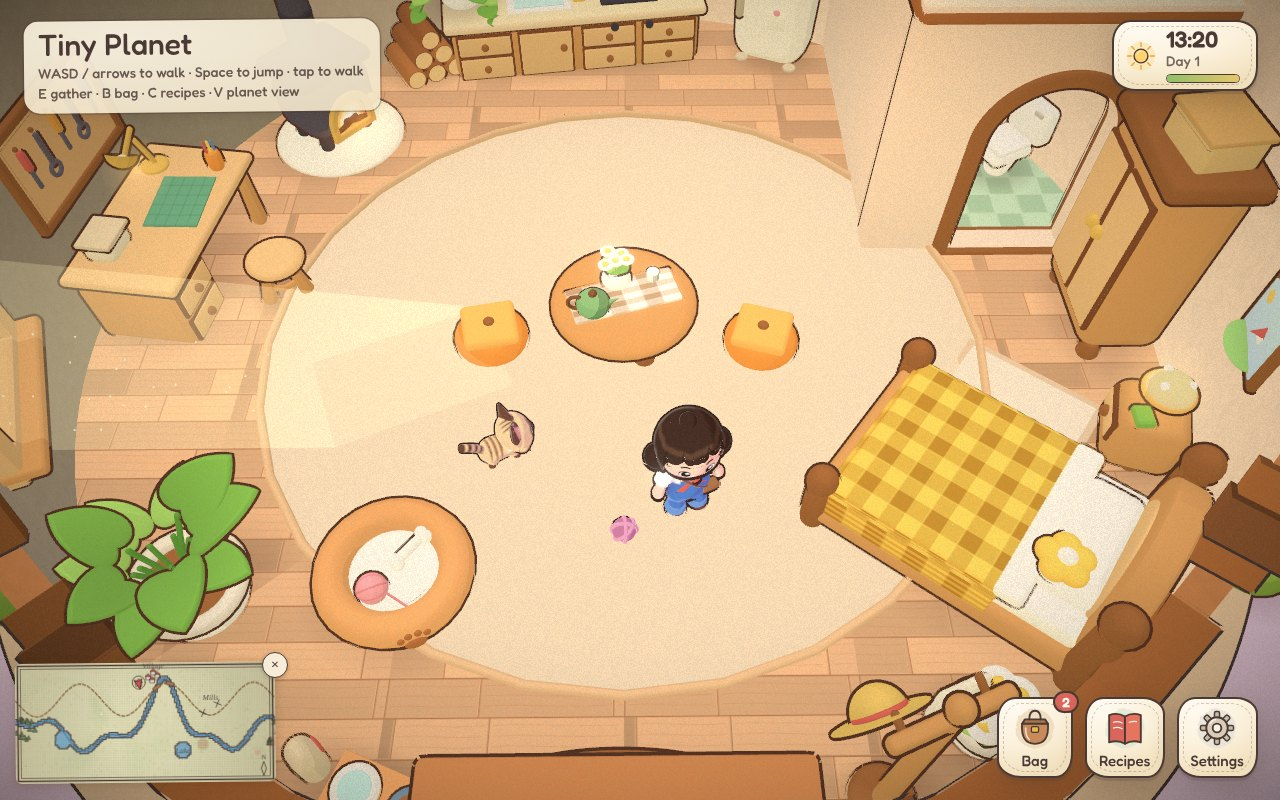
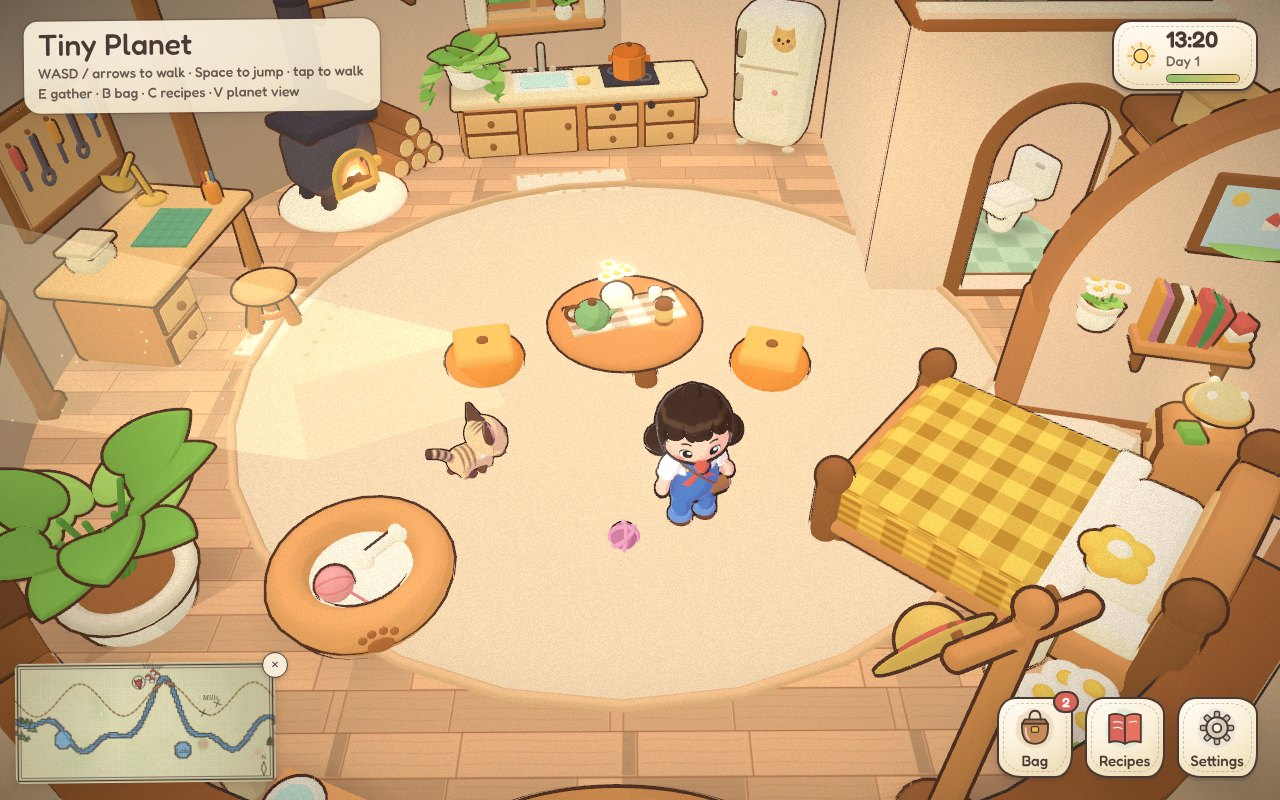
Home: closer to the concept - dollhouse camera, warmer light, bed alcove
- Camera: a lower, more front-on angle (about 38 degrees, was ~52), so the
  back walls stand tall and the room reads like the concept's dollhouse
  cutaway rather than a floor plan; still looks down steeply by the door.
- Light and colour: the walls are a warm peach that lightens toward the
  top; a soft four-pane patch of sunlight falls in front of the kitchen
  counter by day; lamp glows on the floor show faintly by day too; the
  wood palette is a warmer caramel.
- Bed alcove: a plaster half-wall with a quarter-round top and timber
  trim between the wardrobe and the bed, with a little shelf, a picture
  and a daisy pot on the bed side.
- Cozy layers: curtains with tie-backs on the kitchen window, little pots
  on both window sills, a lantern on the table, a trailing pothos on the
  jar shelf, floor mats by the counter and the desk, wall timbers.
New props: alcoveWall, timber, mat; archWindow curtains / sill plant and
a roundTable lantern option.

Claude-Session: https://claude.ai/code/session_01CNaBwL7WGoZ8QVtCgzA9vc

diff --git a/src/home/interior.jsx b/src/home/interior.jsx
@@ -40,8 +40,10 @@ P.bigPlant = against(-131, 0.34, 0.34)
 P.petBowls = against(-158, 0.36, 0.14)
 P.coatStand = against(158, 0.26, 0.12)
 P.wardrobe = against(90, 0.38, 0.24)
-P.nightstand = against(109, 0.19, 0.18)
-P.bed = against(128, 0.5, 0.72)
+P.nightstand = against(112, 0.19, 0.18)
+P.bed = against(130, 0.5, 0.72)
+// the bed alcove: a half-wall with a quarter-round top, from the round wall toward the middle (like the concept)
+export const ALCOVE = { phi: 103, len: 0.5 }
 P.flowerPot = against(147, 0.17, 0.17)
 const pol = (phi, r, yaw = 0) => { const [x, z] = polar(phi, r); return { x, z, yaw } }
 P.petBed = pol(-147, 0.98, 0.4)
@@ -58,7 +60,10 @@ P.toilet = against(63, 0.16, 0.22)
 const KW = -13, LW = -112, PORT = 47
 P.kitchenWindow = onWall(KW, 0.4); P.leftWindow = onWall(LW, 0.4)
 P.jarShelf = onWall(10, 0.62, 0.5); P.bookShelf = onWall(-37, 0.6, 0.44); P.pegboard = onWall(-82, 0.36, 0.42)
-P.picture = onWall(109, 0.42, 0.22); P.towelRail = { x: NOOK.x0 + 0.03, y: 0.32, z: -0.72, yaw: Math.PI / 2 }
+ P.towelRail = { x: NOOK.x0 + 0.03, y: 0.32, z: -0.72, yaw: Math.PI / 2 }
+P.kitchenMat = (() => { const [x, z] = local(P.counter, -0.06, 0.35); return { x, z, yaw: P.counter.yaw } })()
+P.deskMat = (() => { const [x, z] = local(P.desk, -0.02, 0.36); return { x, z, yaw: P.desk.yaw } })()
+P.shelfPlant = (() => { const [x, z] = local(P.jarShelf, 0.215, 0.06); return { x, y: P.jarShelf.y + 0.012, z, yaw: P.jarShelf.yaw } })()
 export const LAYOUT = P
 
 // openings in the round wall (arc width w in room units around phi)
@@ -73,6 +78,7 @@ const cook = local(P.counter, 0.19, 0), sink = local(P.counter, -0.12, 0), cookS
 export const SPOTS = {
   cook: { x: cook[0], z: cook[1], y: 0.238, stand: cookStand, yaw: P.counter.yaw + Math.PI },
   sink: { x: sink[0], z: sink[1] },
+  bath: { stand: [NOOK.x0 + (1.6 - NOOK.x0) / 2 - 0.05, NOOK.z1 - 0.15] },
   table: { x: P.table.x, z: P.table.z, h: 0.158 },
   stool: { x: P.stool.x, z: P.stool.z, h: 0.142, face: P.desk.yaw + Math.PI },
   bed: { ...P.bed, top: 0.16, head: [Math.sin(-P.bed.yaw), -Math.cos(-P.bed.yaw)] }, // head points at the wall
@@ -96,6 +102,7 @@ export const BLOCK_LIST = () => [
   { ...fp('roundTable', P.table, 0.95), id: 'table', round: true }, { ...fp('pouf', P.poufL, 0.85), id: 'poufL', round: true }, { ...fp('pouf', P.poufR, 0.85), id: 'poufR', round: true },
   { id: 'bathSide', x0: NOOK.x0 - 0.04, x1: NOOK.x0 + 0.04, z0: -1.6, z1: NOOK.z1 + 0.03 },
   { id: 'bathFront1', x0: NOOK.x0 - 0.04, x1: 0.95, z0: NOOK.z1 - 0.04, z1: NOOK.z1 + 0.04 }, { id: 'bathFront2', x0: 1.31, x1: 1.6, z0: NOOK.z1 - 0.04, z1: NOOK.z1 + 0.04 },
+  (() => { const [ax, az] = polar(ALCOVE.phi, R), [bx, bz] = polar(ALCOVE.phi, R - ALCOVE.len); return { id: 'alcove', x0: Math.min(ax, bx) - 0.05, x1: Math.max(ax, bx) + 0.05, z0: Math.min(az, bz) - 0.05, z1: Math.max(az, bz) + 0.05 } })(),
   { id: 'tub', x0: P.tub.x - 0.16, x1: P.tub.x + 0.16, z0: P.tub.z - 0.16, z1: P.tub.z + 0.16, round: true }, fp('toilet', P.toilet, 0.85),
 ]
 
@@ -135,7 +142,9 @@ function wallGeos() {
     if (!(hole && hole.o.phi === 180)) quad(outer, no, Pv(A.x, hA, A.z), Pv(B.x, hB, B.z), Pv(oB.x, hB, oB.z), Pv(oA.x, hA, oA.z), Pv(0, 1, 0))
   }
   const mk = (p, n) => { const g = new THREE.BufferGeometry(); g.setAttribute('position', new THREE.Float32BufferAttribute(p, 3)); g.setAttribute('normal', new THREE.Float32BufferAttribute(n, 3)); return g }
-  return [mk(inner, ni), mk(outer, no)]
+  const gi = mk(inner, ni), lo = new THREE.Color('#efc3a6'), hi = new THREE.Color('#fde8da'), c = new THREE.Color(), cols = new Float32Array(inner.length) // warm peach, lighter up high (the concept's glow)
+  for (let i = 0; i < inner.length; i += 3) { c.copy(lo).lerp(hi, Math.min(1, Math.max(0, inner[i + 1] / ROOM.h)) ** 0.8); c.toArray(cols, i) } gi.setAttribute('color', new THREE.BufferAttribute(cols, 3))
+  return [gi, mk(outer, no)]
 }
 // chunky timber cap along the top of the wall, with a squat post every few blocks (the concept's rim)
 function capBlocks() {
@@ -148,10 +157,11 @@ function capBlocks() {
     last = p; acc = 0; k++ }
   return out
 }
+const WALL_IN = new THREE.MeshToonMaterial({ vertexColors: true, gradientMap: toonRamp })
 function Walls() {
   const [gi, go] = useMemo(wallGeos, []), caps = useMemo(capBlocks, [])
   return <group>
-    <mesh geometry={gi} material={tm(W.wall, 0.05)} />
+    <mesh geometry={gi} material={WALL_IN} />
     <mesh geometry={go} material={tm(W.wallOut, 0.1)} />
     {caps.map((c, i) => <group key={i} position={c.p} rotation={[...c.rot, 'YZX']}>
       <O geo={GEO.box} mat={tm(W.cap)} scale={c.s} out={OUT.room} />
@@ -246,6 +256,26 @@ export function Smoke() {
   return <group ref={ref} position={[cx, y0, cz]}>{puffs.map((p, i) => <sprite key={i} material={p.m} />)}</group>
 }
 
+// the bed alcove half-wall, with a little shelf, a picture and a plant on the bed side
+function Alcove() {
+  const [x, z] = polar(ALCOVE.phi, R + 0.02), dx = -Math.sin(ALCOVE.phi * D2R), dz = Math.cos(ALCOVE.phi * D2R), rot = Math.atan2(-dz, dx) // local +x runs in toward the middle
+  return <group position={[x, 0, z]} rotation-y={rot}>
+    <Prop id="alcoveWall" opts={{ len: ALCOVE.len + 0.02, h: 0.85, low: 0.3, d: 0.07, shadow: false }} />
+    <group position={[0.2, 0.3, -0.04]} rotation-y={Math.PI}><Prop id="bookShelf" opts={{}} scale={[0.55, 1, 0.7]} /></group>
+    <group position={[0.17, 0.52, -0.045]} rotation-y={Math.PI}><Prop id="picture" /></group>
+    <group position={[0.4, 0.3, -0.05]} rotation-y={Math.PI} scale={0.6}><Prop id="flowerPot" opts={{ shadow: false }} /></group>
+  </group>
+}
+// sunlight through the kitchen window: a soft four-pane patch on the floor in front of the counter (daytime)
+const paneTex = () => { const c = document.createElement('canvas'); c.width = c.height = 128; const x = c.getContext('2d'); x.filter = 'blur(4px)'; x.fillStyle = '#fff'
+  for (const [px, py] of [[18, 18], [68, 18], [18, 68], [68, 68]]) { x.beginPath(); x.roundRect(px, py, 42, 42, 8); x.fill() } const t = new THREE.CanvasTexture(c); return t }
+export function WindowLight() {
+  const m = useMemo(() => new THREE.MeshBasicMaterial({ map: paneTex(), color: '#ffe6a8', transparent: true, opacity: 0, depthWrite: false, blending: THREE.AdditiveBlending, toneMapped: false }), [])
+  useFrame(() => { m.opacity = 0.55 * Math.max(0, T.day - T.night) })
+  const [x, z] = local(P.counter, -0.14, 0.5)
+  return <mesh position={[x, 0.009, z]} rotation={[-Math.PI / 2, 0, P.counter.yaw + 0.25]} material={m} renderOrder={2}><planeGeometry args={[0.42, 0.34]} /></mesh>
+}
+
 // ---------- everything static, placed ----------
 const at = (pl, y = 0) => ({ position: [pl.x, pl.y ?? y, pl.z], 'rotation-y': pl.yaw })
 export function Shell() {
@@ -255,13 +285,17 @@ export function Shell() {
     <Prop id="counter" {...at(P.counter)} />
     <Prop id="fridge" {...at(P.fridge)} /><Prop id="firewood" {...at(P.firewood)} /><Prop id="woodStove" {...at(P.stove)} opts={{ flue: FLUE }} />
     <Prop id="jarShelf" {...at(P.jarShelf)} /><Prop id="bookShelf" {...at(P.bookShelf)} />
-    <Prop id="archWindow" {...at(P.kitchenWindow)} opts={{ w: 0.36, h: 0.4 }} /><Prop id="archWindow" {...at(P.leftWindow)} opts={{ w: 0.34, h: 0.39 }} />
+    <Prop id="archWindow" {...at(P.kitchenWindow)} opts={{ w: 0.36, h: 0.4, curtains: true, sillPlant: true }} /><Prop id="archWindow" {...at(P.leftWindow)} opts={{ w: 0.34, h: 0.39, sillPlant: true }} />
+    <Prop id="mat" {...at(P.kitchenMat)} opts={{ w: 0.42, d: 0.2, shadow: false }} /><Prop id="mat" {...at(P.deskMat)} opts={{ w: 0.36, d: 0.26, shadow: false }} />
+    <group position={[P.shelfPlant.x, P.shelfPlant.y, P.shelfPlant.z]} rotation-y={P.shelfPlant.yaw} scale={0.75}><Prop id="plant" opts={{ shadow: false }} /></group>
+    {[-64, -100, 34, 72].map(ph => { const pl = onWall(ph, 0), z = polar(ph, R)[1]; return <Prop key={ph} id="timber" opts={{ h: wallH(z) - 0.02 }} {...at(pl)} /> })}
+    <Alcove />
     <Prop id="desk" {...at(P.desk)} /><Prop id="pegboard" {...at(P.pegboard)} /><Prop id="stool" {...at(P.stool)} />
     <Prop id="petBed" {...at(P.petBed)} /><Prop id="petBowls" {...at(P.petBowls)} />
     <Prop id="roundRug" {...at(P.rug)} opts={{ rx: 0.55, rz: 0.46, shadow: false }} pal={{ rug: '#f2dcc0', ring: '#e2b98e' }} />
-    <Prop id="roundTable" {...at(P.table)} /><Prop id="pouf" {...at(P.poufL)} /><Prop id="pouf" {...at(P.poufR)} />
+    <Prop id="roundTable" {...at(P.table)} opts={{ lantern: true }} /><Prop id="pouf" {...at(P.poufL)} /><Prop id="pouf" {...at(P.poufR)} />
     <Prop id="wardrobe" {...at(P.wardrobe)} /><Prop id="nightstand" {...at(P.nightstand)} /><Prop id="bed" {...at(P.bed)} /><Prop id="runner" {...at(P.runner)} />
-    <Prop id="picture" {...at(P.picture)} /><Prop id="coatStand" {...at(P.coatStand)} />
+    <Prop id="coatStand" {...at(P.coatStand)} />
     {/* bath nook: partition (plain side wall + arched front), tub, loo, towel, porthole frame */}
     <Prop id="wallPanel" opts={{ w: 0.97, h: 0.8, d: 0.06 }} position={[NOOK.x0, 0, NOOK.z1 - 0.485]} rotation-y={Math.PI / 2} />
     <Prop id="archWall" opts={{ w: nookFront, h: 0.8, d: 0.06, openW: 0.36, openH: 0.42 }} pal={{ wall: '#f8dcc4' }} position={[NOOK.x0 + nookFront / 2 - 0.03, 0, NOOK.z1]} />

diff --git a/src/props/items/house.js b/src/props/items/house.js
@@ -148,11 +148,42 @@ function archWallGeo(w, h, d, ow, oh) { const s = new THREE.Shape(), r = w / 2, 
   const p = new THREE.Path(); p.moveTo(-ri, 0); p.lineTo(ri, 0); p.lineTo(ri, oh); p.absarc(0, oh, ri, 0, PI, false); p.lineTo(-ri, 0); s.holes.push(p)
   const g = new THREE.ExtrudeGeometry(s, { depth: d, bevelEnabled: true, bevelThickness: 0.012, bevelSize: 0.012, bevelSegments: 2, curveSegments: 20 }); g.translate(0, 0, -d / 2); g.computeVertexNormals(); return g }
 
-defineProp('archWindow', { name: 'Arched window', size: [0.44, 0.48, 0.12], tags: ['structure', 'wall'], pal: { frame: 'woodLight', sill: 'wood', bar: 'woodLight' }, opts: { w: 0.36, h: 0.42 } }, (k, o) => {
+defineProp('archWindow', { name: 'Arched window', size: [0.44, 0.48, 0.12], tags: ['structure', 'wall'], pal: { frame: 'woodLight', sill: 'wood', bar: 'woodLight', curtain: 'cream', tie: '#f2b04a', rod: 'woodDark', leaf: 'leaf' }, opts: { w: 0.36, h: 0.42, curtains: false, sillPlant: false } }, (k, o) => {
   const hr = o.h - o.w / 2
   k.archFrame(o.w, hr, 0.04, 0.05, [0, 0, 0.02], 'frame')
   k.box([0.022, o.h - 0.01, 0.016], [0, (o.h - 0.01) / 2, 0.01], 'bar', { r: 0.006, out: false }); k.box([o.w, 0.02, 0.016], [0, hr * 0.85, 0.01], 'bar', { r: 0.006, out: false })
   k.box([o.w + 0.12, 0.028, 0.11], [0, -0.02, 0.05], 'sill', { r: 0.012 })
+  if (o.curtains) { // cream curtains gathered with tie-backs under a rod with round finials, as on the concept's kitchen window
+    const ry = o.h + 0.05, rw = o.w + 0.22; k.stick([0.009, rw], [0, ry, 0.07], 'rod', { rot: [0, 0, Math.PI / 2] }); for (const s of [-1, 1]) k.ball(0.017, [s * rw / 2, ry, 0.07], 'rod')
+    for (const s of [-1, 1]) { const x = s * (o.w / 2 + 0.03)
+      k.puff([0.075, ry - 0.02, 0.025], [x, (ry - 0.02) / 2 + 0.01, 0.075], 'curtain', { bulge: 0.2, belly: -0.35 }); k.puff([0.08, 0.025, 0.035], [x, ry * 0.42, 0.08], 'tie', { bulge: 0.3 }) } }
+  if (o.sillPlant) { k.pill([0.028, 0.045], [o.w * 0.28, 0.017, 0.06], 'pot', { bevel: 0.3, belly: 0.1 }); k.clump([o.w * 0.28, 0.04, 0.06], 6, 0.045, { e: 0.6 }); k.daisy([o.w * 0.28 - 0.01, 0.085, 0.06], 0.03); k.daisy([o.w * 0.28 + 0.02, 0.075, 0.07], 0.026) }
+})
+
+// a wall timber: a squat round-edged post up the inside of the round wall, with a little corbel at the top
+defineProp('timber', { name: 'Wall timber', size: [0.07, 1.0, 0.05], tags: ['structure', 'wall'], pal: { wood: '#b27040', dark: 'woodDark' }, opts: { h: 1.0 } }, (k, o) => {
+  k.box([0.06, o.h, 0.035], [0, o.h / 2, 0.018], 'wood', { r: 0.012, hi: 0.05 })
+  k.box([0.075, 0.05, 0.06], [0, o.h - 0.06, 0.03], 'dark', { r: 0.012 }); k.box([0.075, 0.04, 0.05], [0, 0.02, 0.025], 'dark', { r: 0.012 })
+})
+
+// the bed alcove's half-wall: a plaster wall whose top sweeps down in a quarter circle (tall at the room's wall,
+// low at its free end), with a timber trim along the curve. len along +x, faces +z / -z.
+defineProp('alcoveWall', { name: 'Alcove wall', size: [0.52, 0.85, 0.07], tags: ['structure'], pal: { wall: '#f6d6c0', trim: '#c98552', cap: '#a8683c' }, opts: { len: 0.52, h: 0.85, low: 0.3, d: 0.07, shadow: false } }, (k, o) => {
+  const { len, h, low, d } = o, s = new THREE.Shape(), N = 16
+  const pt = (t) => [len * Math.cos(t), low + (h - low) * Math.sin(t)] // quarter ellipse: (len, low) round to (0, h)
+  s.moveTo(0, 0); s.lineTo(len, 0); s.lineTo(len, low); for (let i = 1; i <= N; i++) s.lineTo(...pt(i / N * Math.PI / 2)); s.lineTo(0, 0)
+  const g = new THREE.ExtrudeGeometry(s, { depth: d, bevelEnabled: true, bevelThickness: 0.01, bevelSize: 0.01, bevelSegments: 2 }); g.translate(0, 0, -d / 2); g.computeVertexNormals()
+  k.add(g, [0, 0, 0], 'wall', { hi: 0.05 })
+  for (let i = 0; i < N; i++) { const p0 = pt(i / N * Math.PI / 2), p1 = pt((i + 1) / N * Math.PI / 2)
+    const L = Math.hypot(p1[0] - p0[0], p1[1] - p0[1]); k.box([L + 0.012, 0.035, d + 0.03], [(p0[0] + p1[0]) / 2, (p0[1] + p1[1]) / 2 + 0.008, 0], 'trim', { r: 0.01, rot: [0, 0, Math.atan2(p1[1] - p0[1], p1[0] - p0[0])], out: i % 2 === 0 }) }
+  k.box([0.05, low + 0.03, d + 0.03], [len, (low + 0.03) / 2, 0], 'trim', { r: 0.012 })
+  k.box([len + 0.02, 0.03, d + 0.03], [len / 2, 0.015, 0], 'cap', { r: 0.01, out: false })
+})
+
+// a small rectangular mat for in front of things (kitchen, desk, bowls)
+defineProp('mat', { name: 'Floor mat', size: [0.36, 0.01, 0.22], tags: ['living'], pal: { mat: '#f6e7d2', edge: '#e6b98a' }, opts: { w: 0.36, d: 0.22, shadow: false } }, (k, o) => {
+  k.box([o.w, 0.008, o.d], [0, 0.004, 0], 'edge', { r: 0.03, out: false, hi: 0 }); k.box([o.w - 0.04, 0.01, o.d - 0.04], [0, 0.006, 0], 'mat', { r: 0.024, out: false, hi: 0 })
+  for (let i = 0; i < 6; i++) for (const s of [-1, 1]) k.ball([0.008, 0.003, 0.008], [(i - 2.5) * (o.w - 0.08) / 5, 0.012, s * (o.d / 2 - 0.035)], 'edge', { out: false })
 })
 
 defineProp('picture', { name: 'Framed picture', size: [0.22, 0.18, 0.03], tags: ['wall', 'decor'], pal: { frame: 'woodDark', sky: '#cfe6ff', hill: '#9fd17a', sun: '#ffd36e', roof: '#d9655b' } }, (k) => {

diff --git a/src/home/Room.jsx b/src/home/Room.jsx
@@ -10,7 +10,7 @@ import { HOME, ROOM, DOOR, resolve, freeAt, roomToWorld } from './state.js'
 import { O, Merge, GEO, tm, OUT, canvasTex } from './kit.jsx'
 import { T, q, VIEW, setViewMode } from '../common.jsx'
 import { R, height } from '../world.js'
-import { W, Box, Shell, Floor, Backdrop, Windows, Sunbeam, DoorWay, Smoke, LAMP, LAYOUT } from './interior.jsx'
+import { W, Box, Shell, Floor, Backdrop, Windows, Sunbeam, WindowLight, DoorWay, Smoke, LAMP, LAYOUT } from './interior.jsx'
 import { Prop } from '../props/Prop.jsx'
 import { PAD, CAM } from '../touch.jsx'
 import { G, emit, toast } from '../game/store.js'
@@ -82,10 +82,10 @@ HOME.camera = (camera, g, dt) => {
   const hp = HOME.hp, z = Math.min(1, Math.max(0.6, CAM.zoom))
   const dc = Math.hypot(CAT.x - hp.x, CAT.z - hp.z), w = dc < 0.9 ? 0.4 * (1 - dc / 0.9) : 0, fx = hp.x + (CAT.x - hp.x) * w, fz = hp.z + (CAT.z - hp.z) * w
   const nearDoor = Math.min(1, Math.max(0, (hp.z - 0.55) / 0.65)) // by the front rim the door wall would hide her: look down more steeply
-  const el = 0.9 + 0.12 * CAM.pitch + 0.5 * nearDoor, D = (2.55 + 1.3 * (z - 0.6)) * (camera.aspect < 1 ? 1.3 : 1) // elevation (rad) + distance, room units (further back on a tall phone screen)
+  const el = 0.66 + 0.12 * CAM.pitch + 0.55 * nearDoor, D = (2.75 + 1.3 * (z - 0.6)) * (camera.aspect < 1 ? 1.3 : 1) // elevation (rad) + distance, room units (further back on a tall phone screen)
   _look.set(Math.max(-1.2, Math.min(1.2, fx)) * 0.8, 0.14 + CAT.y * w * 0.5, Math.max(-1.0, Math.min(1.3, fz)) * 0.85 - 0.04)
   _goal.set(_look.x * 0.7, _look.y + Math.sin(el) * D, _look.z + Math.cos(el) * D)
-  if (WIDE) { _look.set(0, 0.0, -0.05); _goal.set(0, 3.7, 3.7) }
+  if (WIDE) { _look.set(0, 0.12, -0.15); _goal.set(0, 2.75, 4.45) }
   if (FREECAM) { _goal.set(FREECAM[0], FREECAM[1], FREECAM[2]); _look.set(FREECAM[3], FREECAM[4], FREECAM[5]) }
   if (PETCAM) { const a = window.__camA ?? (+PETCAM || 0.5), dd = window.__camD ?? 0.55; _goal.set(CAT.x + Math.sin(a) * dd, CAT.y + (window.__camH ?? 0.32 * dd / 0.55 * 0.8 + 0.06), CAT.z + Math.cos(a) * dd); _look.set(CAT.x, CAT.y + 0.07, CAT.z) }
   const ps = HOME.pose; if (ps && !PETCAM && !WIDE && !FREECAM && ps.cam !== false) { const pk = Math.min(1, ps.k) // activities frame the bed / tub / desk ...
@@ -104,7 +104,7 @@ HOME.sun = () => { if (HOME.roomObj) T.sun.copy(_a.set(-0.8, 0.55 - 0.85 * T.nig
 const glowTex = () => canvasTex(128, 128, (x, w, h) => { const g = x.createRadialGradient(w / 2, h / 2, 0, w / 2, h / 2, w / 2); g.addColorStop(0, 'rgba(255,255,255,1)'); g.addColorStop(0.45, 'rgba(255,255,255,.45)'); g.addColorStop(1, 'rgba(255,255,255,0)'); x.fillStyle = g; x.fillRect(0, 0, w, h) })
 function NightGlow() {
   const [lamp, stove] = useMemo(() => { const t = glowTex(); const mk = (c) => new THREE.MeshBasicMaterial({ map: t, color: c, transparent: true, opacity: 0, depthWrite: false, blending: THREE.AdditiveBlending, toneMapped: false }); return [mk('#ffb860'), mk('#ff8a3a')] }, [])
-  useFrame(() => { const t = performance.now() / 1000, k = HOME.inside ? Math.min(1, T.night + 0.4 * T.dusk) : 0; lamp.opacity = 0.42 * k; stove.opacity = k * (0.5 + Math.sin(t * 7) * 0.05 + Math.sin(t * 13) * 0.04) })
+  useFrame(() => { const t = performance.now() / 1000, k = HOME.inside ? Math.min(1, 0.22 + T.night + 0.4 * T.dusk) : 0; lamp.opacity = 0.42 * k; stove.opacity = k * (0.5 + Math.sin(t * 7) * 0.05 + Math.sin(t * 13) * 0.04) })
   return <group>
     <mesh position={[0, 0.007, 0.1]} rotation={[-Math.PI / 2, 0, 0]} material={lamp} renderOrder={2}><planeGeometry args={[1.6, 1.3]} /></mesh>
     <mesh position={[LAMP.lx, 0.008, LAMP.lz + 0.3]} rotation={[-Math.PI / 2, 0, 0]} material={lamp} renderOrder={2}><planeGeometry args={[1.0, 0.7]} /></mesh>
@@ -163,7 +163,7 @@ export function Room() {
   })
   const onDown = (e) => { if (!HOME.inside) return; e.stopPropagation(); const l = ref.current.worldToLocal(e.point.clone()); HOME.hp.target = { x: l.x, z: l.z } }
   return <group ref={ref} visible={HOME.inside} scale={ROOM.S}>
-    <Backdrop /><Floor onDown={onDown} /><Windows /><Sunbeam /><DoorWay /><Smoke /><Lamp /><NightGlow />
+    <Backdrop /><Floor onDown={onDown} /><Windows /><Sunbeam /><DoorWay /><Smoke /><WindowLight /><Lamp /><NightGlow />
     <Merge><Shell /></Merge>
     <React.Suspense fallback={null}><Activities /></React.Suspense>
     <InsideDecor />

diff --git a/src/props/items/home.js b/src/props/items/home.js
@@ -35,6 +35,7 @@ defineProp('roundTable', { name: 'Round table', size: [0.42, 0.24, 0.42], tags: 
   k.pill([0.16, 0.025], [0, 0.105, 0], 'leg', { bevel: 0.3, out: false })
   for (let i = 0; i < 3; i++) { const a = i / 3 * PI * 2 + 0.5; k.stick([0.026, 0.13], [Math.sin(a) * 0.105, 0.055, Math.cos(a) * 0.105], 'leg', { rot: [-Math.cos(a) * 0.25, 0, Math.sin(a) * 0.25], taper: -0.25 }) }
   k.box([0.3, 0.01, 0.12], [0, 0.162, 0], 'cloth', { r: 0.004, rot: [0, 0.3, 0], pattern: 'gingham', tile: 3 })
+  if (o.lantern) { k.pill([0.024, 0.012], [0.1, 0.168, 0.04], 'woodDark', { bevel: 0.4 }); k.pill([0.022, 0.04], [0.1, 0.193, 0.04], '#ffcf72', { glow: true, bevel: 0.2, belly: 0.1 }); k.dome([0.024, 0.018, 0.024], [0.1, 0.212, 0.04], 'woodDark'); k.halo([0.1, 0.195, 0.04], 0.08) }
   if (o.vase !== false) { k.pill([0.032, 0.05], [-0.02, 0.19, -0.04], 'white', { bevel: 0.45, belly: 0.25 })
     for (let i = 0; i < 5; i++) { const a = i * 1.3; k.daisy([-0.02 + Math.sin(a) * 0.03 * (i ? 1 : 0), 0.255 + (i % 2) * 0.014, -0.04 + Math.cos(a) * 0.03 * (i ? 1 : 0)], 0.026) } }
 })

diff --git a/src/home/Activities.jsx b/src/home/Activities.jsx
@@ -28,7 +28,7 @@ const toward = (x, z, d) => { const r = Math.hypot(x, z) || 1; return [x - x / r
 const STOOL_DIR = [Math.sin(STOOL.face), Math.cos(STOOL.face)], READ_STAND = [STOOL.x - STOOL_DIR[0] * 0.2, STOOL.z - STOOL_DIR[1] * 0.2]
 const BED_SIDE = (() => { const [hx, hz] = BED.head; let px = -hz, pz = hx; if (px * -BED.x + pz * -BED.z < 0) { px = -px; pz = -pz } return [px, pz] })()
 const BED_STAND = [BED.x - BED.head[0] * 0.5 + BED_SIDE[0] * 0.12, BED.z - BED.head[1] * 0.5 + BED_SIDE[1] * 0.12], BED_HEAD = [BED.x + BED.head[0] * 0.24, BED.z + BED.head[1] * 0.24] // stand by the foot of the bed
-const BATH_STAND = [1.13, -0.46], FEED_STAND = toward(BOWL.x, BOWL.z, 0.25)
+const BATH_STAND = SPOTS.bath.stand, FEED_STAND = toward(BOWL.x, BOWL.z, 0.25)
 const plant = (id, prop, pl, y, d, lim, cam) => ({ id, prop, x: pl.x, z: pl.z, y, yaw: pl.yaw || 0, s: 1, stand: toward(pl.x, pl.z, d), lim, cam })
 const PLANTS = [
   plant('big', 'bigPlant', SPOTS.plants.big, 0, 0.32, 0.26),

diff --git a/src/props/kit.js b/src/props/kit.js
@@ -16,7 +16,7 @@ import { mergeGeometries, mergeVertices } from 'three/examples/jsm/utils/BufferG
 
 // ---------- palette: named swatches shared by every prop (items refer to these names, or to raw hex) ----------
 export const PAL = {
-  wood: '#d39a5e', woodLight: '#e8bc84', woodDark: '#9c6338', trim: '#7d4a2c',
+  wood: '#d8955a', woodLight: '#ecbb80', woodDark: '#9c6338', trim: '#7d4a2c',
   cream: '#fff4e2', linen: '#f6e6cc', white: '#fffaf2', paper: '#fbf1dc',
   quilt: '#f7c95a', quiltDark: '#eba63e', orange: '#f29a46', peach: '#f6c3a0', rose: '#f3a3a8', sky: '#9fd0ee',
   leaf: '#7fb84f', leafLight: '#a6d36a', leafDark: '#5d9a3e', pot: '#fbf6ee', potRim: '#eadfcc',
